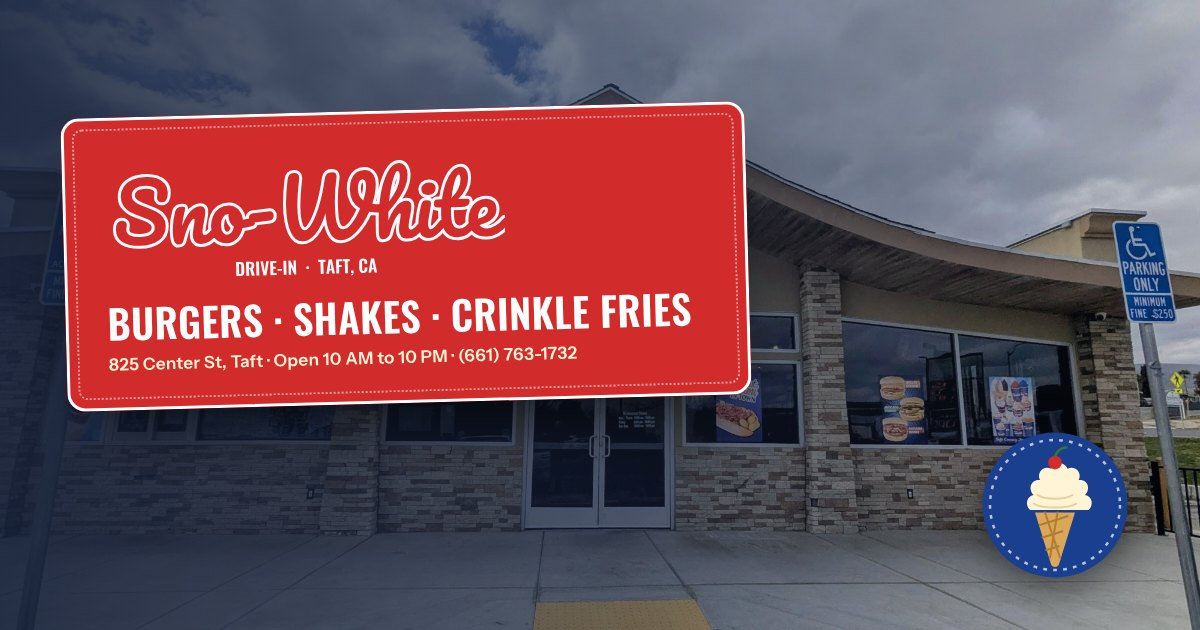
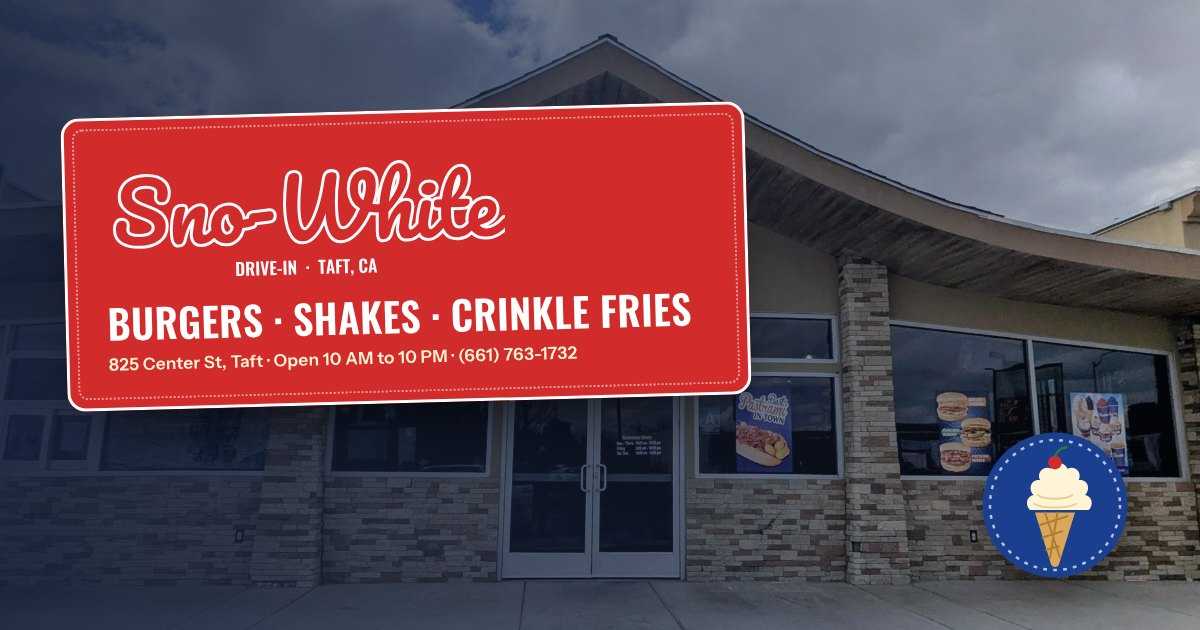
Bring the hero closer to the storefront and straighten the sign
Tighter crop of the storefront photo (no parking signs, less sky and
sidewalk), the red marquee panel sits straight and pinned to the left so
the building's own Sno-white sign stays in view, with the arrow pointing
at the door. Share card re-rendered from the new crop.

Claude-Session: https://claude.ai/code/session_01St9xwHkRhNt12oTjsjAU88

diff --git a/index.html b/index.html
@@ -186,11 +186,11 @@ p{margin:0}
 /* ---------- hero: the front of the restaurant, with a drive-in sign over it ---------- */
 .hero{position:relative;isolation:isolate;min-height:min(88vh,780px);display:flex;align-items:end;background:var(--sky);overflow:hidden}
 .hero .ph{position:absolute;inset:0;z-index:-2}
-.hero .ph img{width:100%;height:100%;object-fit:cover;object-position:50% 40%}
-.hero .ph::after{content:"";position:absolute;inset:0;background:linear-gradient(90deg,rgba(22,33,58,.42) 0,rgba(22,33,58,.16) 45%,rgba(22,33,58,0) 70%),linear-gradient(180deg,rgba(22,33,58,0) 60%,rgba(22,33,58,.45))}
-.hero .wrap{position:relative;padding:150px 0 56px;display:grid;grid-template-columns:minmax(0,560px) 1fr;align-items:end}
+.hero .ph img{width:100%;height:100%;object-fit:cover;object-position:50% 45%}
+.hero .ph::after{content:"";position:absolute;inset:0;background:linear-gradient(90deg,rgba(22,33,58,.5) 0,rgba(22,33,58,.2) 40%,rgba(22,33,58,0) 60%),linear-gradient(180deg,rgba(22,33,58,0) 60%,rgba(22,33,58,.45))}
+.hero .wrap{position:relative;width:100%;padding:140px clamp(24px,5vw,140px) 52px;display:grid;grid-template-columns:minmax(0,480px) 1fr;align-items:end}
 /* the sign: a red marquee panel with a bulb border and an arrow tail pointing at the building */
-.sign{position:relative;background:var(--red);color:#fff;padding:34px 38px 30px 34px;border-radius:18px 18px 18px 18px;box-shadow:0 40px 70px -30px rgba(22,33,58,.75),inset 0 0 0 3px #fff,inset 0 0 0 7px var(--red);transform:rotate(-1deg)}
+.sign{position:relative;background:var(--red);color:#fff;padding:30px 32px 26px 30px;border-radius:18px 18px 18px 18px;box-shadow:0 40px 70px -30px rgba(22,33,58,.75),inset 0 0 0 3px #fff,inset 0 0 0 7px var(--red)}
 .sign::before{content:"";position:absolute;inset:11px;border:2px dotted rgba(255,255,255,.55);border-radius:10px;pointer-events:none}
 .sign .bulbs{position:absolute;inset:3px;border-radius:15px;pointer-events:none;
   background:
@@ -207,13 +207,13 @@ p{margin:0}
     radial-gradient(circle,rgba(255,255,255,.95) 0 1.6px,transparent 2.2px) 100% 11px/10px 22px repeat-y;
   animation:twinkle 1.6s steps(2) infinite reverse}
 @keyframes twinkle{50%{opacity:.35}}
-.sign .arrow{position:absolute;right:-54px;top:50%;width:72px;height:72px;transform:translateY(-50%);filter:drop-shadow(0 10px 14px rgba(22,33,58,.4))}
+.sign .arrow{position:absolute;right:-50px;top:68%;width:72px;height:72px;transform:translateY(-50%);filter:drop-shadow(0 10px 14px rgba(22,33,58,.4))}
 .sign .arrow svg{width:100%;height:100%;display:block}
 .eyebrow{display:inline-flex;align-items:center;gap:10px;font-family:var(--head);font-size:13px;font-weight:500;letter-spacing:.2em;text-transform:uppercase;color:var(--cream)}
 .eyebrow::before{content:"";width:28px;height:2px;background:var(--cream)}
-.hero h1{font-size:clamp(40px,5.6vw,70px);margin:14px 0 14px;max-width:12ch;color:#fff;text-shadow:0 3px 0 rgba(22,33,58,.25)}
+.hero h1{font-size:clamp(36px,3.9vw,53px);margin:12px 0 12px;max-width:12ch;color:#fff;text-shadow:0 3px 0 rgba(22,33,58,.25)}
 .hero h1 em{font-family:var(--script);font-style:normal;font-weight:400;text-transform:none;color:var(--cream);font-size:.78em;line-height:1;letter-spacing:0}
-.hero .lede{font-size:18px;max-width:44ch;color:rgba(255,255,255,.95)}
+.hero .lede{font-size:17px;max-width:44ch;color:rgba(255,255,255,.95)}
 .hero .lede b{font-weight:600;color:#fff}
 .dias{display:flex;gap:26px;margin-top:26px;flex-wrap:wrap}
 .dia{--s:60px;width:var(--s);height:var(--s);display:grid;place-items:center;text-decoration:none;position:relative;color:var(--snow)}
@@ -235,12 +235,12 @@ p{margin:0}
 @media (max-width:900px){
   .hero{display:block;min-height:0;background:var(--snow)}
   .hero .ph{position:relative;inset:auto;z-index:0;aspect-ratio:4/3}
-  .hero .ph img{object-position:60% 50%}
+  .hero .ph img{object-position:50% 50%}
   .hero .ph::after{background:linear-gradient(180deg,rgba(22,33,58,0) 70%,rgba(22,33,58,.3))}
-  .hero .wrap{grid-template-columns:1fr;padding:0 0 36px;width:100%}
+  .hero .wrap{grid-template-columns:1fr;padding:0 0 36px}
   .sign{margin:-64px 16px 0;transform:none;padding:26px 22px 24px;border-radius:14px}
   .sign .arrow{display:none}
-  .hero h1{font-size:clamp(34px,10vw,44px)}
+  .hero h1{font-size:clamp(32px,9.2vw,40px)}
   .dias{gap:20px}
   .dia{--s:54px}
   .sticker{width:96px;height:96px;top:14px;right:14px}
@@ -445,7 +445,7 @@ footer .by a{text-decoration:none;font-weight:600}
       <div class="arrow" aria-hidden="true"><svg viewBox="0 0 72 72"><path d="M6 20h30V6l30 30-30 30V52H6z" fill="#fff5d6" stroke="#fff" stroke-width="3" stroke-linejoin="round"/><path d="M14 36h26" stroke="#d12b2b" stroke-width="6" stroke-linecap="round"/></svg></div>
       <p class="eyebrow">825 Center St · Taft, CA</p>
       <h1>Burgers, shakes <em>&amp;</em> crinkle fries, cooked when you order.</h1>
-      <p class="lede">A real drive-in on Center Street: pastrami burgers, chili cheese fries, hand-dipped corn dogs and a freezer full of shakes, freezes and sundaes.<br><b>Drive-thru, dine-in, pickup and delivery. Open 10 to 10.</b></p>
+      <p class="lede">A real drive-in on Center Street: pastrami burgers, chili cheese fries, hand-dipped corn dogs and a freezer full of shakes, freezes and sundaes. <b>Drive-thru, dine-in, pickup and delivery. Open 10 to 10.</b></p>
       <div class="dias">
         <a class="dia" href="https://www.facebook.com/Sno-White-Drive-In-108122955896707/" target="_blank" rel="noopener"><svg viewBox="0 0 24 24"><path d="M13.5 22v-8h2.7l.4-3.2h-3.1V8.8c0-.9.3-1.6 1.6-1.6h1.7V4.4c-.3 0-1.3-.1-2.5-.1-2.5 0-4.1 1.5-4.1 4.2v2.3H7.4V14h2.8v8z"/></svg><span class="tip">Facebook</span></a>
         <a class="dia" href="tel:+16617631732"><svg viewBox="0 0 24 24"><path d="M6.6 10.8a15.1 15.1 0 0 0 6.6 6.6l2.2-2.2c.3-.3.7-.4 1-.2 1.1.4 2.3.6 3.6.6.6 0 1 .4 1 1V20c0 .6-.4 1-1 1A17 17 0 0 1 3 4c0-.6.4-1 1-1h3.5c.6 0 1 .4 1 1 0 1.3.2 2.5.6 3.6.1.3 0 .7-.2 1z"/></svg><span class="tip">Call</span></a>

diff --git a/build/template.html b/build/template.html
@@ -123,11 +123,11 @@ p{margin:0}
 /* ---------- hero: the front of the restaurant, with a drive-in sign over it ---------- */
 .hero{position:relative;isolation:isolate;min-height:min(88vh,780px);display:flex;align-items:end;background:var(--sky);overflow:hidden}
 .hero .ph{position:absolute;inset:0;z-index:-2}
-.hero .ph img{width:100%;height:100%;object-fit:cover;object-position:50% 40%}
-.hero .ph::after{content:"";position:absolute;inset:0;background:linear-gradient(90deg,rgba(22,33,58,.42) 0,rgba(22,33,58,.16) 45%,rgba(22,33,58,0) 70%),linear-gradient(180deg,rgba(22,33,58,0) 60%,rgba(22,33,58,.45))}
-.hero .wrap{position:relative;padding:150px 0 56px;display:grid;grid-template-columns:minmax(0,560px) 1fr;align-items:end}
+.hero .ph img{width:100%;height:100%;object-fit:cover;object-position:50% 45%}
+.hero .ph::after{content:"";position:absolute;inset:0;background:linear-gradient(90deg,rgba(22,33,58,.5) 0,rgba(22,33,58,.2) 40%,rgba(22,33,58,0) 60%),linear-gradient(180deg,rgba(22,33,58,0) 60%,rgba(22,33,58,.45))}
+.hero .wrap{position:relative;width:100%;padding:140px clamp(24px,5vw,140px) 52px;display:grid;grid-template-columns:minmax(0,480px) 1fr;align-items:end}
 /* the sign: a red marquee panel with a bulb border and an arrow tail pointing at the building */
-.sign{position:relative;background:var(--red);color:#fff;padding:34px 38px 30px 34px;border-radius:18px 18px 18px 18px;box-shadow:0 40px 70px -30px rgba(22,33,58,.75),inset 0 0 0 3px #fff,inset 0 0 0 7px var(--red);transform:rotate(-1deg)}
+.sign{position:relative;background:var(--red);color:#fff;padding:30px 32px 26px 30px;border-radius:18px 18px 18px 18px;box-shadow:0 40px 70px -30px rgba(22,33,58,.75),inset 0 0 0 3px #fff,inset 0 0 0 7px var(--red)}
 .sign::before{content:"";position:absolute;inset:11px;border:2px dotted rgba(255,255,255,.55);border-radius:10px;pointer-events:none}
 .sign .bulbs{position:absolute;inset:3px;border-radius:15px;pointer-events:none;
   background:
@@ -144,13 +144,13 @@ p{margin:0}
     radial-gradient(circle,rgba(255,255,255,.95) 0 1.6px,transparent 2.2px) 100% 11px/10px 22px repeat-y;
   animation:twinkle 1.6s steps(2) infinite reverse}
 @keyframes twinkle{50%{opacity:.35}}
-.sign .arrow{position:absolute;right:-54px;top:50%;width:72px;height:72px;transform:translateY(-50%);filter:drop-shadow(0 10px 14px rgba(22,33,58,.4))}
+.sign .arrow{position:absolute;right:-50px;top:68%;width:72px;height:72px;transform:translateY(-50%);filter:drop-shadow(0 10px 14px rgba(22,33,58,.4))}
 .sign .arrow svg{width:100%;height:100%;display:block}
 .eyebrow{display:inline-flex;align-items:center;gap:10px;font-family:var(--head);font-size:13px;font-weight:500;letter-spacing:.2em;text-transform:uppercase;color:var(--cream)}
 .eyebrow::before{content:"";width:28px;height:2px;background:var(--cream)}
-.hero h1{font-size:clamp(40px,5.6vw,70px);margin:14px 0 14px;max-width:12ch;color:#fff;text-shadow:0 3px 0 rgba(22,33,58,.25)}
+.hero h1{font-size:clamp(36px,3.9vw,53px);margin:12px 0 12px;max-width:12ch;color:#fff;text-shadow:0 3px 0 rgba(22,33,58,.25)}
 .hero h1 em{font-family:var(--script);font-style:normal;font-weight:400;text-transform:none;color:var(--cream);font-size:.78em;line-height:1;letter-spacing:0}
-.hero .lede{font-size:18px;max-width:44ch;color:rgba(255,255,255,.95)}
+.hero .lede{font-size:17px;max-width:44ch;color:rgba(255,255,255,.95)}
 .hero .lede b{font-weight:600;color:#fff}
 .dias{display:flex;gap:26px;margin-top:26px;flex-wrap:wrap}
 .dia{--s:60px;width:var(--s);height:var(--s);display:grid;place-items:center;text-decoration:none;position:relative;color:var(--snow)}
@@ -172,12 +172,12 @@ p{margin:0}
 @media (max-width:900px){
   .hero{display:block;min-height:0;background:var(--snow)}
   .hero .ph{position:relative;inset:auto;z-index:0;aspect-ratio:4/3}
-  .hero .ph img{object-position:60% 50%}
+  .hero .ph img{object-position:50% 50%}
   .hero .ph::after{background:linear-gradient(180deg,rgba(22,33,58,0) 70%,rgba(22,33,58,.3))}
-  .hero .wrap{grid-template-columns:1fr;padding:0 0 36px;width:100%}
+  .hero .wrap{grid-template-columns:1fr;padding:0 0 36px}
   .sign{margin:-64px 16px 0;transform:none;padding:26px 22px 24px;border-radius:14px}
   .sign .arrow{display:none}
-  .hero h1{font-size:clamp(34px,10vw,44px)}
+  .hero h1{font-size:clamp(32px,9.2vw,40px)}
   .dias{gap:20px}
   .dia{--s:54px}
   .sticker{width:96px;height:96px;top:14px;right:14px}
@@ -382,7 +382,7 @@ footer .by a{text-decoration:none;font-weight:600}
       <div class="arrow" aria-hidden="true"><svg viewBox="0 0 72 72"><path d="M6 20h30V6l30 30-30 30V52H6z" fill="#fff5d6" stroke="#fff" stroke-width="3" stroke-linejoin="round"/><path d="M14 36h26" stroke="#d12b2b" stroke-width="6" stroke-linecap="round"/></svg></div>
       <p class="eyebrow">825 Center St · Taft, CA</p>
       <h1>Burgers, shakes <em>&amp;</em> crinkle fries, cooked when you order.</h1>
-      <p class="lede">A real drive-in on Center Street: pastrami burgers, chili cheese fries, hand-dipped corn dogs and a freezer full of shakes, freezes and sundaes.<br><b>Drive-thru, dine-in, pickup and delivery. Open 10 to 10.</b></p>
+      <p class="lede">A real drive-in on Center Street: pastrami burgers, chili cheese fries, hand-dipped corn dogs and a freezer full of shakes, freezes and sundaes. <b>Drive-thru, dine-in, pickup and delivery. Open 10 to 10.</b></p>
       <div class="dias">
         <a class="dia" href="{{FACEBOOK}}" target="_blank" rel="noopener"><svg viewBox="0 0 24 24"><path d="M13.5 22v-8h2.7l.4-3.2h-3.1V8.8c0-.9.3-1.6 1.6-1.6h1.7V4.4c-.3 0-1.3-.1-2.5-.1-2.5 0-4.1 1.5-4.1 4.2v2.3H7.4V14h2.8v8z"/></svg><span class="tip">Facebook</span></a>
         <a class="dia" href="tel:{{PHONE_TEL}}"><svg viewBox="0 0 24 24"><path d="M6.6 10.8a15.1 15.1 0 0 0 6.6 6.6l2.2-2.2c.3-.3.7-.4 1-.2 1.1.4 2.3.6 3.6.6.6 0 1 .4 1 1V20c0 .6-.4 1-1 1A17 17 0 0 1 3 4c0-.6.4-1 1-1h3.5c.6 0 1 .4 1 1 0 1.3.2 2.5.6 3.6.1.3 0 .7-.2 1z"/></svg><span class="tip">Call</span></a>
